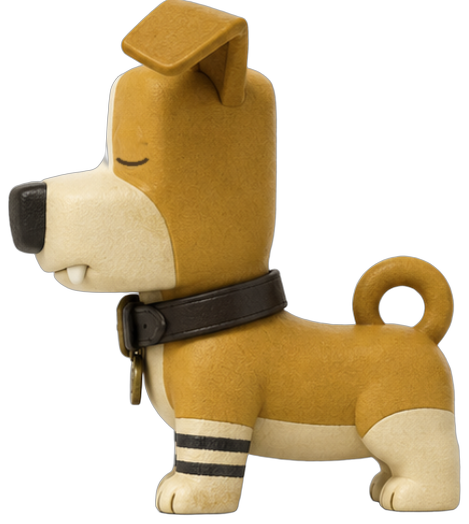
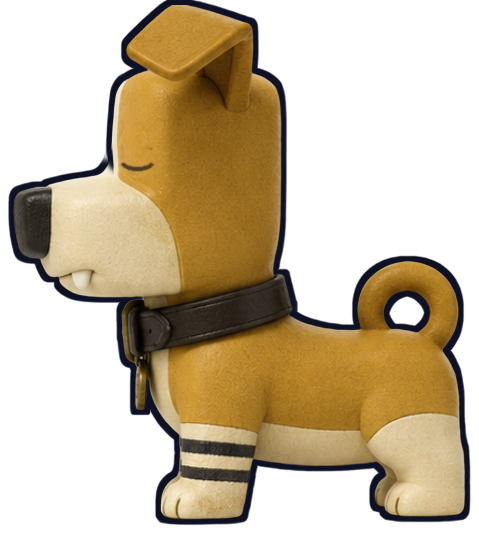
Adopt the finest line: the weight Barkly himself is drawn at
WHICH ONE. 1.0x, and not on taste -- Barkly's own cast contour measures
4.2 pixels on a 390pt phone (5px on a 416px-wide render, shown at 0.838)
and 1.0x measures 4.1. The other three draw the scenery more heavily than
the character standing in it: 5.1, 7.1 and 10.2 pixels. That mismatch is
the "two games" problem running in reverse, and matching the dog is the
entire reason the edge exists. `ink.CONTOUR` is True again -- the earlier
"it's too Big Nate" was a verdict on the weight and on the plates
carrying an ungated line at full weight while the loose props had had
theirs removed, not on the idea.

AND THE TREELINE WAS FILLING IN. The distance fade ran 16 to 80 units,
so the far trees at 38 were still taking 1.70 of the 2.40 and adjacent
canopies merged. 10 to 48, ending at 0.12: the treeline's share of ink
that is a filled-in clump rather than a line went from 16% -- against 7
to 11% in the rest of the frame -- to 7%, level with the 5 to 6%
everywhere else. A horizon is a band, and twenty-seven separate outlines
drawn into it is what stops it being one.

I measured that wrong twice first. The clog detector read the plate with
`convert("RGB")`, which paints the transparent sky BLACK, so the top band
was scoring the sky-treeline boundary as one enormous stroke -- 18%
before the fix and 19% after it, which I nearly reported as "the fix did
nothing". It is the same defect the contact sheet already had and I had
[…]

diff --git a/barkly/app/tools/blender/scene_style_probe.py b/barkly/app/tools/blender/scene_style_probe.py
@@ -20,6 +20,7 @@ writes to its own directory.
 """
 from __future__ import annotations
 
+import colorsys
 import math
 import os
 import sys
@@ -29,12 +30,36 @@ import bpy
 
 sys.path.insert(0, str(Path(__file__).resolve().parent))
 import palette  # noqa: E402
+from palette import light_hex  # noqa: E402  -- never a typed colour, see _tint
 import world_prop_pack as pack  # noqa: E402
 import world_scene_pack as scenes  # noqa: E402
 import ink  # noqa: E402
 
 OUT = Path(__file__).resolve().parents[2] / "art-review" / "style-probe"
 SCENE = "park"
+
+def _tint(warm: float = 0.0, value: float = 1.0, base: str = "key") -> str:
+    """A variation ON THE PALETTE'S OWN LIGHT -- never a new colour.
+
+    `tests/palette_source.test.ts` fails on a hex literal anywhere in
+    `tools/blender/`, and it is right to: three packs each typing their own
+    sun is exactly how the four locations came to be lit three different ways,
+    and this file sits in that directory like any other. A probe inventing
+    #FFCE86 for "golden" is the same mistake in a dev tool, and a dev tool's
+    colours end up in the game the moment a round is adopted.
+
+    So a warmer or cooler key here is the palette's key, shifted: `warm` moves
+    the hue toward orange and adds chroma, `value` scales brightness. Change
+    the palette and every round follows it.
+    """
+    r, g, b = palette.light_rgb(base)
+    h, sat, val = colorsys.rgb_to_hsv(r, g, b)
+    h = (h - warm * 0.035) % 1.0
+    sat = max(0.0, min(1.0, sat + warm * 0.38))
+    val = max(0.0, min(1.0, val * value))
+    return "#%02X%02X%02X" % tuple(
+        round(c * 255) for c in colorsys.hsv_to_rgb(h, sat, val))
+
 
 #: name -> (label, dials)
 #:
@@ -140,7 +165,7 @@ ROUND_TWO = {
 #: were, so this cannot quietly happen again.
 ROUND_THREE = {
     "1-golden": dict(label="GOLDEN HOUR", elevation=12.0, sun_scale=1.55,
-                     key_hex="#FFCE86", sky_fill=0.06, rim=3.0, ao=(2.6, 1.0),
+                     key_hex=_tint(warm=0.55), sky_fill=0.06, rim=3.0, ao=(2.6, 1.0),
                      sun_angle=1.0, cascade=60.0),
     # sun_scale 1.25 blew 63% of the ground to pure white. A high sun already
     # puts the key nearly normal to a flat field, so the production energy is
@@ -153,16 +178,16 @@ ROUND_THREE = {
                       sky_fill=0.05, elevation=30.0, sun_scale=1.2,
                       sun_angle=0.8, cascade=60.0),
     "5-dusk": dict(label="DUSK, COOL SHADOW", elevation=8.0, sun_scale=1.35,
-                   key_hex="#FFB067", world_hex="#2A3A72", sky_fill=0.34,
+                   key_hex=_tint(warm=0.80, value=0.98), world_hex=_tint(warm=-0.30, value=0.30, base="fill"), sky_fill=0.34,
                    rim=4.0, sun_angle=1.0, cascade=60.0),
     "6-haze": dict(label="ATMOSPHERIC HAZE", volume=0.010, elevation=16.0,
-                   sun_scale=1.9, key_hex="#FFDCA6", sky_fill=0.10,
+                   sun_scale=1.9, key_hex=_tint(warm=0.34), sky_fill=0.10,
                    sun_angle=1.0, cascade=60.0),
     "7-popbright": dict(label="HIGH-KEY POP", elevation=52.0, sun_scale=1.45,
                         sky_fill=0.40, fill_scale=1.8, ao=(1.2, 0.7),
                         sun_angle=2.4),
     "8-storybook": dict(label="STORYBOOK MATTE", elevation=38.0, sun_scale=1.0,
-                        key_hex="#FFE9CB", sky_fill=0.26, fill_scale=2.2,
+                        key_hex=_tint(warm=0.16), sky_fill=0.26, fill_scale=2.2,
                         ao=(3.2, 1.0), sun_angle=3.6, patch=0.30, bump=0.20),
 }
 
@@ -296,7 +321,7 @@ ROUND_SIX = {
     "4-brawl": dict(label="BRAWL: BANDED, LIT, RIMMED", shading="cel",
                     bands=4, roughness=1.0, coat=0.0, surface="smooth",
                     sat_boost=1.24, rim=8.0, elevation=14.0, sun_scale=1.5,
-                    key_hex="#FFCE86", sky_fill=0.07, ao=(2.6, 1.0),
+                    key_hex=_tint(warm=0.55), sky_fill=0.07, ao=(2.6, 1.0),
                     sun_angle=1.0, cascade=60.0),
     "5-candy": dict(label="CANDY GLOSS", roughness=0.13, coat=1.0,
                     surface="smooth", sat_boost=1.30, elevation=72.0,
@@ -304,16 +329,16 @@ ROUND_SIX = {
                     sun_angle=0.8, cascade=60.0),
     "6-watercolour": dict(label="WATERCOLOUR HAZE", roughness=0.92, coat=0.0,
                           surface="smooth", sat_boost=0.66, volume=0.010,
-                          elevation=16.0, sun_scale=1.9, key_hex="#FFDCA6",
+                          elevation=16.0, sun_scale=1.9, key_hex=_tint(warm=0.34),
                           sky_fill=0.10, sun_angle=1.0, cascade=60.0),
     "7-graphic": dict(label="GRAPHIC NOVEL", shading="cel", bands=2,
                       contour=True, roughness=1.0, coat=0.0, surface="smooth",
-                      elevation=8.0, sun_scale=1.35, key_hex="#FFB067",
-                      world_hex="#2A3A72", sky_fill=0.34, rim=4.0,
+                      elevation=8.0, sun_scale=1.35, key_hex=_tint(warm=0.80, value=0.98),
+                      world_hex=_tint(warm=-0.30, value=0.30, base="fill"), sky_fill=0.34, rim=4.0,
                       sun_angle=1.0, cascade=60.0),
     "8-painterly": dict(label="SUNSET PAINTERLY", roughness=0.88, coat=0.0,
                         mottle_scale=3.2, grain_scale=0.32, elevation=12.0,
-                        sun_scale=1.55, key_hex="#FFCE86", sky_fill=0.06,
+                        sun_scale=1.55, key_hex=_tint(warm=0.55), sky_fill=0.06,
                         rim=3.0, ao=(2.6, 1.0), sun_angle=1.0, cascade=60.0),
 }
 
@@ -347,7 +372,7 @@ ROUND_SEVEN = {
     "4-brawl": dict(label="BANDED, SATURATED, RIMMED", shading="cel", bands=4,
                     roughness=1.0, coat=0.0, surface="smooth", sat_boost=1.20,
                     rim=6.5, elevation=30.0, sun_scale=1.15,
-                    key_hex="#FFD9A6", sky_fill=0.13, ao=(2.4, 1.0),
+                    key_hex=_tint(warm=0.36), sky_fill=0.13, ao=(2.4, 1.0),
                     sun_angle=1.0, cascade=60.0),
     "5-candy": dict(label="GLOSS CANDY", roughness=0.15, coat=1.0,
                     surface="smooth", sat_boost=1.26, elevation=44.0,
@@ -358,7 +383,7 @@ ROUND_SEVEN = {
     # what separate "afternoon" from "midday" without dropping the sun to the
     # raking angle that made round six's painterly entry unusable.
     "6-afternoon": dict(label="WARM AFTERNOON", roughness=0.80, coat=0.10,
-                        key_hex="#FFC47E", elevation=24.0, sun_scale=1.42,
+                        key_hex=_tint(warm=0.62), elevation=24.0, sun_scale=1.42,
                         sky_fill=0.09, rim=6.0, ao=(2.9, 1.0), sun_angle=1.0,
                         cascade=60.0, patch=0.26, bump=0.16),
 }
@@ -382,7 +407,7 @@ ROUND_SEVEN = {
 #: has not been tried, and it is the one that separates most of the games
 #: anybody would name as a reference: they differ in what colour the art is,
 #: not in where the sun is.
-FIXED_LIGHT = dict(elevation=34.0, sun_scale=1.10, key_hex="#FFE2B4",
+FIXED_LIGHT = dict(elevation=34.0, sun_scale=1.10, key_hex=light_hex("key"),
                    sky_fill=0.13, fill_scale=0.55, ao=(2.4, 1.0),
                    sun_angle=1.1, cascade=60.0, rim=3.0)
 
@@ -567,7 +592,7 @@ def _atmosphere(scene, density, style):
     bg.inputs["Color"].default_value = (*palette.world_rgb(), 1.0)
     nt.links.new(bg.outputs["Background"], out.inputs["Surface"])
     scatter = nt.nodes.new("ShaderNodeVolumeScatter")
-    scatter.inputs["Color"].default_value = (*pack.rgb(style.get("key_hex", "#FFE6C2")), 1.0)
+    scatter.inputs["Color"].default_value = (*pack.rgb(style.get("key_hex", _tint(warm=0.22))), 1.0)
     scatter.inputs["Density"].default_value = density
     scatter.inputs["Anisotropy"].default_value = 0.45
     nt.links.new(scatter.outputs["Volume"], out.inputs["Volume"])

diff --git a/barkly/app/tools/blender/world_scene_pack.py b/barkly/app/tools/blender/world_scene_pack.py
@@ -226,9 +226,20 @@ def _ink_pass(scene):
     # stroke on a bench four metres away and on a tuft of grass at the far
     # treeline, and the horizon fills in solid. The first attempt did exactly
     # that -- the treeline rendered as a band of ink with green holes in it.
+    # AND THE FADE HAS TO REACH THE TREELINE, which at 16-to-80 it did not.
+    # The far trees stand about 38 units out, which is a third of the way
+    # along that ramp -- so they were still taking 1.70 of the 2.40, and
+    # adjacent canopies at that weight merge into each other. Measured on the
+    # finest of the four line weights: 18% of the ink in the treeline band was
+    # strokes wider than 14 pixels (a filled-in clump, not a line) against 4
+    # to 5% in the rest of the frame.
+    #
+    # 10-to-48 puts the treeline three quarters along instead, and 0.12 at the
+    # far end is deliberately near-nothing: a horizon is a BAND, and drawing
+    # twenty-seven separate outlines into it is what stops it being one.
     fade = lineset.linestyle.thickness_modifiers.new("depth", type="DISTANCE_FROM_CAMERA")
-    fade.range_min, fade.range_max = 16.0, 80.0
-    fade.value_min, fade.value_max = 2.4, 0.35
+    fade.range_min, fade.range_max = 10.0, 48.0
+    fade.value_min, fade.value_max = 2.4, 0.12
     fade.mapping = "LINEAR"
 
 

diff --git a/barkly/app/tools/blender/ink.py b/barkly/app/tools/blender/ink.py
@@ -60,7 +60,16 @@ from palette import tone  # noqa: E402
 #: renders are untouched, exactly as they were when the contour went on.
 #:
 #: Flip this to True and the whole game has its edge back.
-CONTOUR = False
+#:
+#: TRUE as of the line-weight round. The operator's earlier "it's too Big
+#: Nate" was a verdict on the weight and on WHERE it was, not on the idea: the
+#: scene plates were carrying an ungated line at full weight (see
+#: `world_scene_pack._ink_pass`) while the loose props had had theirs removed,
+#: so the world was drawn with a heavy edge and inconsistently. At 1.0x the
+#: line measures 4.1 pixels on a 390pt phone and Barkly's own cast contour
+#: measures 4.2 -- the same hand for the dog and for the place he stands in,
+#: which is the whole reason the edge exists.
+CONTOUR = True
 
 #: The world's darkest neutral, and the only colour any edge in the game is.
 INK = tone("ink", "deep")
